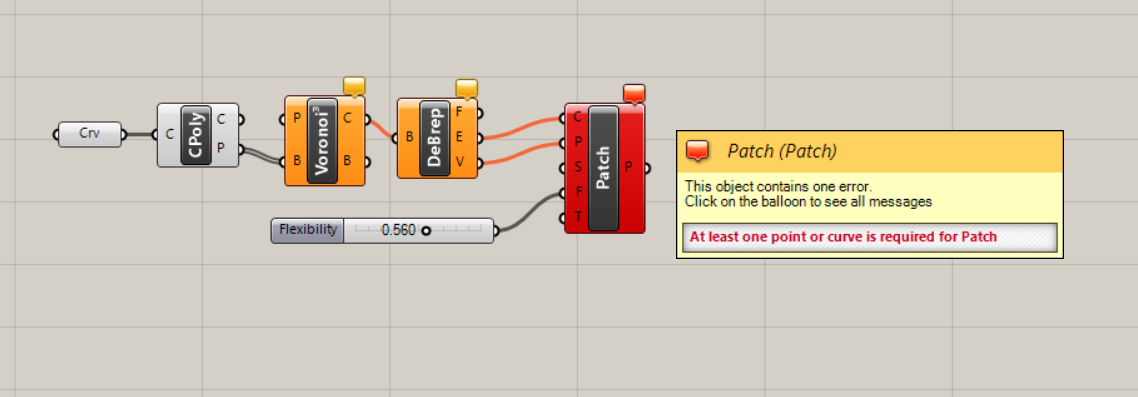
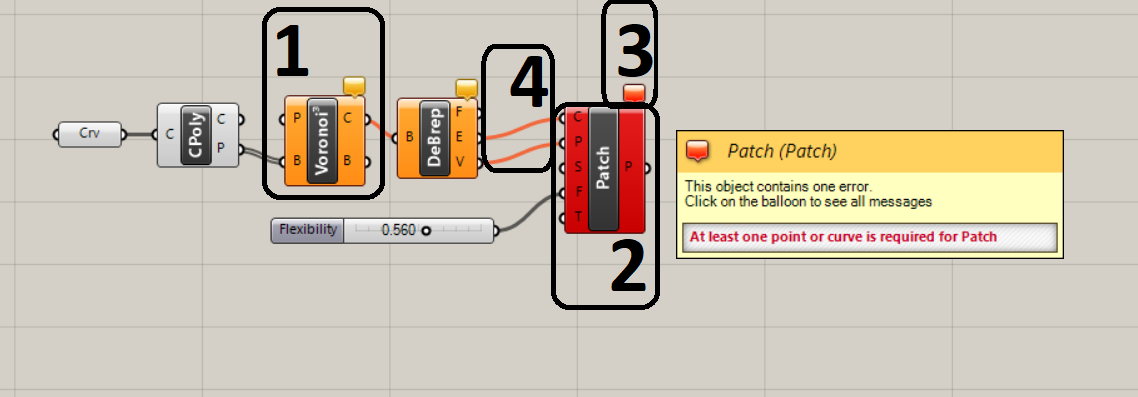
New sections

Changed region(s): [[0.3998, 0.0, 0.5844, 0.7859], [0.2153, 0.0, 0.3383, 0.5139]]

diff --git a/grasshopper.html b/grasshopper.html
@@ -10,17 +10,14 @@
 <body>
 
 <!-- Links (sit on top) -->
-
-  <div class="w3-bar w3-xlarge w3-black">
+	<div class="w3-bar w3-xlarge w3-black">
     
-		<a href="index.html" class="w3-bar-item w3-black">Home</a>
-   
-       <a href="casestudy.html" class="w3-bar-item w3-block w3-black">Paracraft</a>
-  
-       <a href="paramDesign.html" class="w3-bar-item w3-block w3-black">Parametric Design</a>
-   
-		<a href="grasshopper.html" class="w3-bar-item w3-block w3-black">Grasshopper Workflow</a>	
-		<a href="about.html" class="w3-bar-item w3-block w3-black">About</a>
+		<a href="index.html" class="w3-bar-item w3-button">Home</a>
+		<a href="paramDesign.html" class="w3-bar-item w3-button w3-black">Parametric Design</a>
+		<a href="grasshopper.html" class="w3-bar-item w3-button w3-black">Grasshopper Workflow</a>	
+		<a href="examples.html" class="w3-bar-item w3-button w3-black">Patch Examples</a>
+		<a href="casestudy.html" class="w3-bar-item w3-button w3-black">Paracraft</a>
+		<a href="about.html" class="w3-bar-item w3-block w3-button">About</a>
   </div>
 
 
@@ -51,11 +48,11 @@
 
 	 <h3 class="w3-text-teal">Grasshopper Fundamentals</h3>
 
-	 <p>An component in Grasshopper is made up of three parts; the input, the operation, and the output. Each operation is a mathematical function that manipulates  some form of data. Data is passed between objects through the use of <i>wires</i>, in a similar manner to other visual scripting languages, and flows from left to right. The data used is usually some kind of 3D object, such as a point, a line, or a surface, or an operation being applied to a 3D object. Lists of data can also be processed by a single object. When an object is producing multiple pieces of data, the connection between objects becomes a dashed line instead of a solid one. A list can be flattened into a single piece of data by using the <i>flatten tree</i> object type, or by right clicking on the object outlet that is producing the list of data.</p>
+	 <p>An component in Grasshopper is made up of three parts; the input (1), the operation, and the output (2). Each operation is a mathematical function that manipulates  some form of data. Data is passed between objects through the use of <i>wires</i> (3), in a similar manner to other visual scripting languages, and flows from left to right. The data used is usually some kind of 3D object, such as a point, a line, or a surface, or an operation being applied to a 3D object. Lists of data can also be processed by a single object. When an object is producing multiple pieces of data, the connection between objects becomes a dashed line instead of a solid one (4). A list can be flattened into a single piece of data by using the <i>flatten tree</i> object type, or by right clicking on the object outlet that is producing the list of data.</p>
 	
 	<img src="content/tutorial/object_Example.png" alt="object examples" width=60% height=60%>
 	
-	<p>An issue or error when processing an algorithm is displayed by a color change in the problematic object. An orange object is one that has run, but has encountered an error while doing so. A red object is one that was unable to run do to its error. When an object faces an error, it creates a small text bubble that can be red by mousing over its icon in the top left corner of the object. Keep in mind that it is possible for an object to face multiple errors at once. If a wire is not passing any data between objects due to an error, it will appear as orange instead of gray.  </p> 
+	<p>An issue or error when processing an algorithm is displayed by a color change in the problematic object. An orange object is one that has run, but has encountered an error while doing so (1). A red object is one that was unable to run do to its error (2). When an object faces an error, it creates a small text bubble that can be read by mousing over its icon in the top left corner of the object (3). Keep in mind that it is possible for an object to face multiple errors at once. If a wire is not passing any data between objects due to an error, it will appear as orange instead of gray (4).  </p> 
 	  
 	<img src="content/tutorial/error_Example.png" alt="error examples" width=60% height=60%>
 	
@@ -74,19 +71,15 @@
 	
 	<img src="content/tutorial/preview_Example.png" alt="Example of a preview in Rhino" width=60% height=60%>
 
-	<p>Some components in Grasshopper have interactive GUI elements that can be used to affect the algorithm in real time. The most common of these components are the <i>slider</i>, and the <i> MD slider</i>. These two components rpovide a way to edit variables in a quick and user friednly way, and can be customized by  </p> 
+	<p>Some components in Grasshopper have interactive GUI elements that can be used to affect the algorithm in real time. The most common of these components are the <i>slider</i> (1), and the <i> MD slider</i> (2). These two components provide a way to edit variables in a quick and user friendly way, and can be customized by right clicking on the object and selecting the edit option, which will open a new window containing options to customize settings such as the range, number type and UI design of the slider (3).   </p> 
 
-	 <h3 class="w3-text-teal">Grasshopper Tools</h3>
-	 <p>Lorem ipsum dolor sit amet, consectetur adipisicing elit, sed do eiusmod tempor incididunt ut labore et dolore magna aliqua. Ut enim ad minim veniam, quis nostrud exercitation ullamco laboris nisi ut aliquip ex ea commodo consequat. Lorem ipsum dolor sit amet, consectetur adipisicing elit, sed do eiusmod tempor incididunt ut labore et dolore magna aliqua. Ut enim ad minim veniam, quis nostrud exercitation ullamco laboris nisi ut aliquip ex ea commodo consequat.</p>
-	
-	  
-	  <h3 class="w3-text-teal">Tips & Tricks for Grasshopper</h3>
-	  
-     <p>Lorem ipsum dolor sit amet, consectetur adipisicing elit, sed do eiusmod tempor incididunt ut labore et dolore magna aliqua. Ut enim ad minim veniam, quis nostrud exercitation ullamco laboris nisi ut aliquip ex ea commodo consequat. Lorem ipsum dolor sit amet, consectetur adipisicing elit, sed do eiusmod tempor incididunt ut labore et dolore magna aliqua. Ut enim ad minim veniam, quis nostrud exercitation ullamco laboris nisi ut aliquip ex ea commodo consequat.</p>
+   <img src="content/tutorial/slider_Example.png" alt="Example of a interactive elements" width=60% height=60%>
    
 	 <h3 class="w3-text-teal">Further Reading</h3>
 	  
-     <p>Lorem ipsum dolor sit amet, consectetur adipisicing elit, sed do eiusmod tempor incididunt ut labore et dolore magna aliqua. Ut enim ad minim veniam, quis nostrud exercitation ullamco laboris nisi ut aliquip ex ea commodo consequat. Lorem ipsum dolor sit amet, consectetur adipisicing elit, sed do eiusmod tempor incididunt ut labore et dolore magna aliqua. Ut enim ad minim veniam, quis nostrud exercitation ullamco laboris nisi ut aliquip ex ea commodo consequat.</p>
+     <p><a href="https://www.grasshopper3d.com/page/tutorials-1">Official Grasshopper tutorial.</a></p>
+	<p><a href="https://www.modelab.is/grasshopper-primer/">Detailed Grasshopper primer.</a></p>
+
     </div>
   </div>
   

diff --git a/examples.html b/examples.html
@@ -28,32 +28,26 @@
 
   <div class="w3-row w3-padding-64">
     <div class="w3-twothird w3-container">
-     
-	 <h1 class="w3-text-teal">Introduction</h1>
-      <p>Lorem ipsum dolor sit amet, consectetur adipisicing elit, sed do eiusmod tempor incididunt ut labore et dolore magna aliqua. Ut enim ad minim veniam, quis nostrud exercitation ullamco laboris nisi ut aliquip ex ea commodo consequat. Lorem ipsum
-        dolor sit amet, consectetur adipisicing elit, sed do eiusmod tempor incididunt ut labore et dolore magna aliqua. Ut enim ad minim veniam, quis nostrud exercitation ullamco laboris nisi ut aliquip ex ea commodo consequat.</p>
-		
-		<h1 class="w3-text-teal">Understanding Processes</h1>
-      <p>Lorem ipsum dolor sit amet, consectetur adipisicing elit, sed do eiusmod tempor incididunt ut labore et dolore magna aliqua. Ut enim ad minim veniam, quis nostrud exercitation ullamco laboris nisi ut aliquip ex ea commodo consequat. Lorem ipsum
-        dolor sit amet, consectetur adipisicing elit, sed do eiusmod tempor incididunt ut labore et dolore magna aliqua. Ut enim ad minim veniam, quis nostrud exercitation ullamco laboris nisi ut aliquip ex ea commodo consequat.</p>
-		
-				<h1 class="w3-text-teal">Methods</h1>
-      <p>Lorem ipsum dolor sit amet, consectetur adipisicing elit, sed do eiusmod tempor incididunt ut labore et dolore magna aliqua. Ut enim ad minim veniam, quis nostrud exercitation ullamco laboris nisi ut aliquip ex ea commodo consequat. Lorem ipsum
-        dolor sit amet, consectetur adipisicing elit, sed do eiusmod tempor incididunt ut labore et dolore magna aliqua. Ut enim ad minim veniam, quis nostrud exercitation ullamco laboris nisi ut aliquip ex ea commodo consequat.</p>	
-		
-		<h1 class="w3-text-teal">Refining Designs</h1>
+      <h1 class="w3-text-teal">Introduction</h1>
       <p>Lorem ipsum dolor sit amet, consectetur adipisicing elit, sed do eiusmod tempor incididunt ut labore et dolore magna aliqua. Ut enim ad minim veniam, quis nostrud exercitation ullamco laboris nisi ut aliquip ex ea commodo consequat. Lorem ipsum
         dolor sit amet, consectetur adipisicing elit, sed do eiusmod tempor incididunt ut labore et dolore magna aliqua. Ut enim ad minim veniam, quis nostrud exercitation ullamco laboris nisi ut aliquip ex ea commodo consequat.</p>
 		
 		
+		<h1 class="w3-text-teal">Control Methods</h1>
+      <p>Bounderies and </p>
 		
-	<h1 class="w3-text-teal">Fabrication Methods</h1>
+		<h1 class="w3-text-teal">Gemoetry Manipulation</h1>
       <p>Lorem ipsum dolor sit amet, consectetur adipisicing elit, sed do eiusmod tempor incididunt ut labore et dolore magna aliqua. Ut enim ad minim veniam, quis nostrud exercitation ullamco laboris nisi ut aliquip ex ea commodo consequat. Lorem ipsum
         dolor sit amet, consectetur adipisicing elit, sed do eiusmod tempor incididunt ut labore et dolore magna aliqua. Ut enim ad minim veniam, quis nostrud exercitation ullamco laboris nisi ut aliquip ex ea commodo consequat.</p>
 		
+		<h1 class="w3-text-teal">Random Elements</h1>
+      <p>Lorem ipsum dolor sit amet, consectetur adipisicing elit, sed do eiusmod tempor incididunt ut labore et dolore magna aliqua. Ut enim ad minim veniam, quis nostrud exercitation ullamco laboris nisi ut aliquip ex ea commodo consequat. Lorem ipsum
+        dolor sit amet, consectetur adipisicing elit, sed do eiusmod tempor incididunt ut labore et dolore magna aliqua. Ut enim ad minim veniam, quis nostrud exercitation ullamco laboris nisi ut aliquip ex ea commodo consequat.</p>
 		
     </div>
   </div>
+  
+  
   
   
   <footer id="myFooter">

diff --git a/about.html b/about.html
@@ -12,14 +12,12 @@
 <!-- Links (sit on top) -->
   <div class="w3-bar w3-xlarge w3-black">
     
-		<a href="index.html" class="w3-bar-item w3-black">Home</a>
-   
-       <a href="casestudy.html" class="w3-bar-item w3-block w3-black">Paracraft</a>
-  
-       <a href="paramDesign.html" class="w3-bar-item w3-block w3-black">Parametric Design</a>
-   
-		<a href="grasshopper.html" class="w3-bar-item w3-block w3-black">Grasshopper Workflow</a>	
-		<a href="about.html" class="w3-bar-item w3-block w3-black">About</a>
+		<a href="index.html" class="w3-bar-item w3-button">Home</a>
+		<a href="paramDesign.html" class="w3-bar-item w3-button w3-black">Parametric Design</a>
+		<a href="grasshopper.html" class="w3-bar-item w3-button w3-black">Grasshopper Workflow</a>	
+		<a href="examples.html" class="w3-bar-item w3-button w3-black">Patch Examples</a>
+		<a href="casestudy.html" class="w3-bar-item w3-button w3-black">Paracraft</a>
+		<a href="about.html" class="w3-bar-item w3-block w3-button">About</a>
   </div>
 
 

diff --git a/casestudy.html b/casestudy.html
@@ -12,14 +12,12 @@
 <!-- Links (sit on top) -->
   <div class="w3-bar w3-xlarge w3-black">
     
-		<a href="index.html" class="w3-bar-item w3-black">Home</a>
-   
-       <a href="casestudy.html" class="w3-bar-item w3-block w3-black">Paracraft</a>
-  
-       <a href="paramDesign.html" class="w3-bar-item w3-block w3-black">Parametric Design</a>
-   
-		<a href="grasshopper.html" class="w3-bar-item w3-block w3-black">Grasshopper Workflow</a>	
-		<a href="about.html" class="w3-bar-item w3-block w3-black">About</a>
+		<a href="index.html" class="w3-bar-item w3-button">Home</a>
+		<a href="paramDesign.html" class="w3-bar-item w3-button w3-black">Parametric Design</a>
+		<a href="grasshopper.html" class="w3-bar-item w3-button w3-black">Grasshopper Workflow</a>	
+		<a href="examples.html" class="w3-bar-item w3-button w3-black">Patch Examples</a>
+		<a href="casestudy.html" class="w3-bar-item w3-button w3-black">Paracraft</a>
+		<a href="about.html" class="w3-bar-item w3-block w3-button">About</a>
   </div>
 
 

diff --git a/index.html b/index.html
@@ -12,14 +12,12 @@
 <!-- Links (sit on top) -->
   <div class="w3-bar w3-xlarge w3-black">
     
-		<a href="index.html" class="w3-bar-item w3-black">Home</a>
-   
-       <a href="casestudy.html" class="w3-bar-item w3-block w3-black">Paracraft</a>
-  
-       <a href="paramDesign.html" class="w3-bar-item w3-block w3-black">Parametric Design</a>
-   
-		<a href="grasshopper.html" class="w3-bar-item w3-block w3-black">Grasshopper Workflow</a>	
-		<a href="about.html" class="w3-bar-item w3-block w3-black">About</a>
+		<a href="index.html" class="w3-bar-item w3-button">Home</a>
+		<a href="paramDesign.html" class="w3-bar-item w3-button w3-black">Parametric Design</a>
+		<a href="grasshopper.html" class="w3-bar-item w3-button w3-black">Grasshopper Workflow</a>	
+		<a href="examples.html" class="w3-bar-item w3-button w3-black">Patch Examples</a>
+		<a href="casestudy.html" class="w3-bar-item w3-button w3-black">Paracraft</a>
+		<a href="about.html" class="w3-bar-item w3-block w3-button">About</a>
   </div>
 
 
